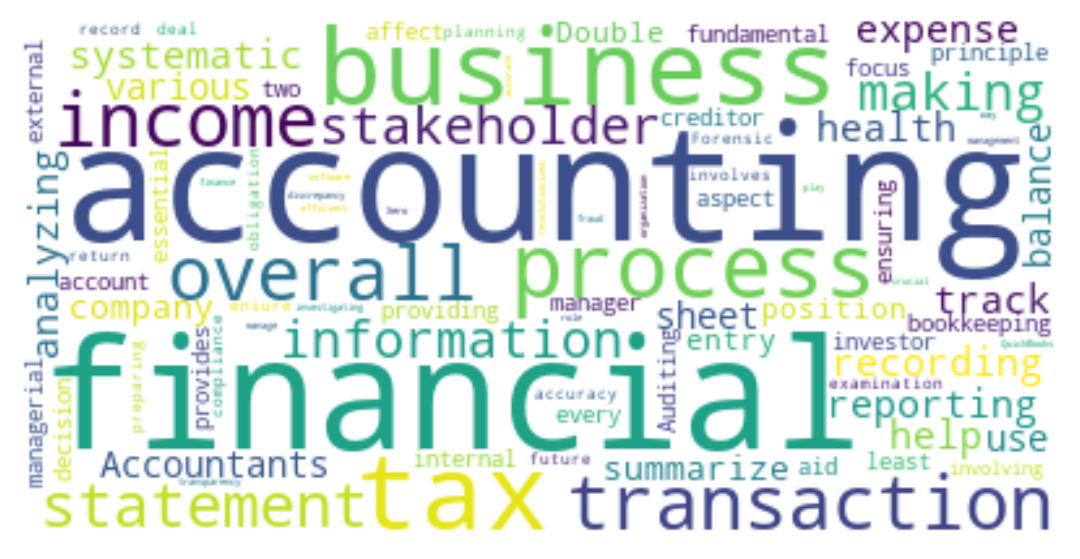
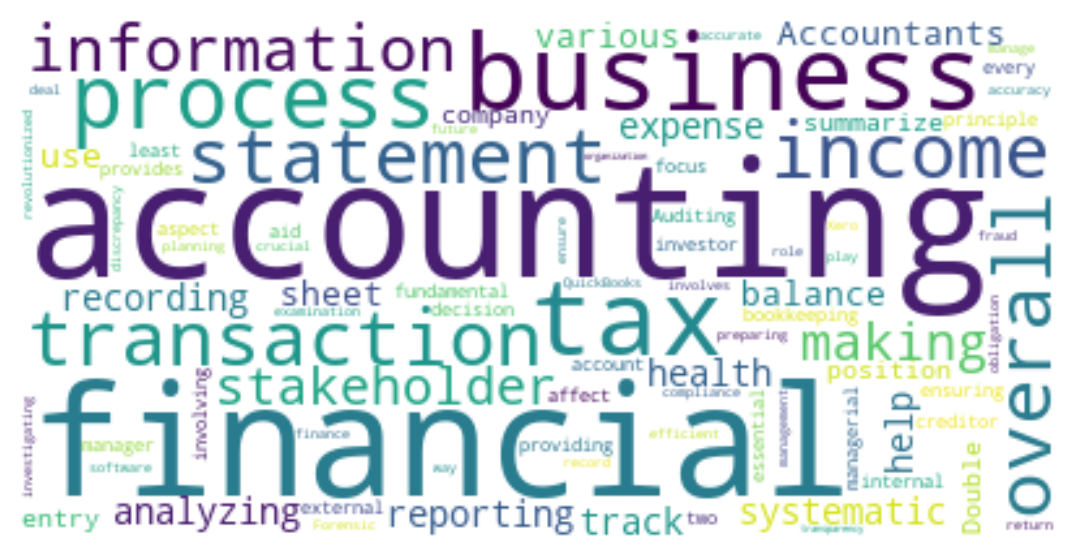
nlpUpdate04262026

diff --git a/_book/index.html b/_book/index.html
@@ -5,7 +5,7 @@
 <meta name="generator" content="quarto-1.4.551">
 <meta name="viewport" content="width=device-width, initial-scale=1.0, user-scalable=yes">
 <meta name="author" content="Sharif Islam, DBA, CPA, CMA">
-<meta name="dcterms.date" content="2026-04-13">
+<meta name="dcterms.date" content="2026-04-26">
 <title>Analytics for Accounting Data</title>
 <style>
 code{white-space: pre-wrap;}
@@ -375,7 +375,7 @@ ul.task-list li input[type="checkbox"] {
     <div>
     <div class="quarto-title-meta-heading">Published</div>
     <div class="quarto-title-meta-contents">
-      <p class="date">April 13, 2026</p>
+      <p class="date">April 26, 2026</p>
     </div>
   </div>
   